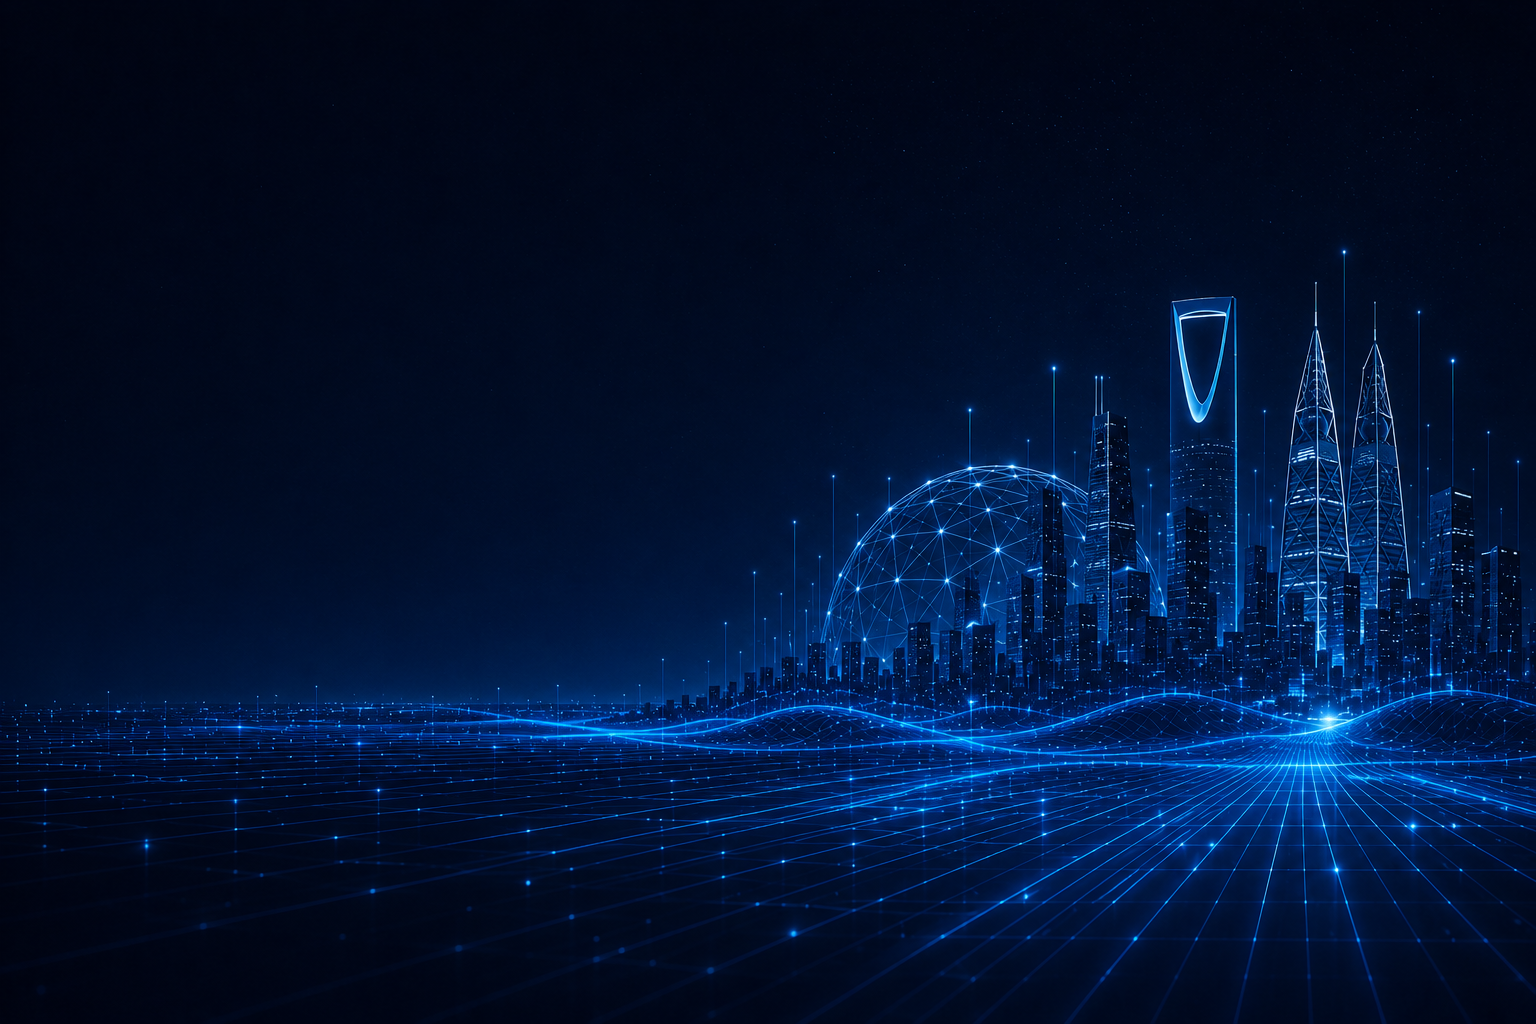
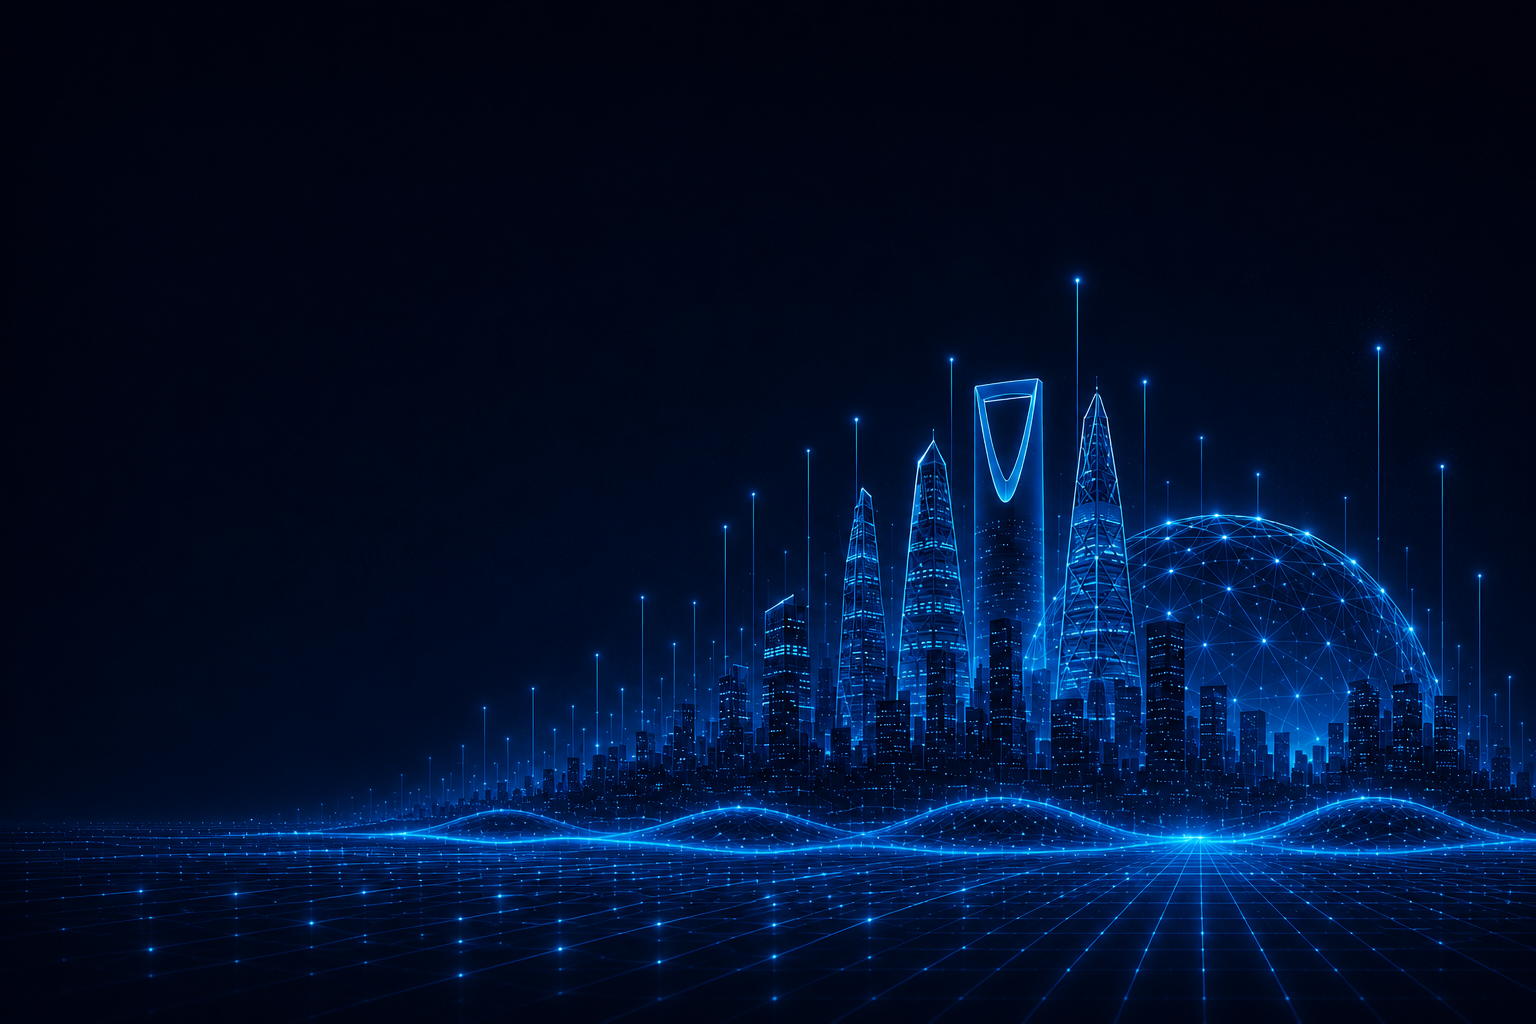
xx

diff --git a/src/components/Footer.css b/src/components/Footer.css
@@ -1,6 +1,6 @@
 .footer {
-  background: var(--bmc-dark);
-  border-top: 1px solid rgba(0,194,255,0.15);
+  background: linear-gradient(135deg, #040819 0%, #071022 55%, #050B1B 100%);
+  border-top: 1px solid rgba(245,240,232,0.08);
 }
 
 .footer-top {
@@ -63,20 +63,39 @@
 
 /* ── Brand Column Partners ── */
 .footer-brand-partners {
-  margin-top: 20px;
+  margin-top: 22px;
+  margin-inline-start: 18px;
+  padding-top: 18px;
+  border-top: 1px solid rgba(245,240,232,0.08);
   width: 100%;
 }
 
 .footer-partners-label--inline {
-  display: block;
-  margin-bottom: 10px;
+  display: inline-flex;
+  align-items: center;
+  gap: 9px;
+  margin-bottom: 14px;
   text-align: start;
+}
+
+.footer-partners-label--inline::after {
+  content: '';
+  width: 34px;
+  height: 1px;
+  background: linear-gradient(90deg, rgba(0,194,255,0.9), transparent);
+}
+
+.rtl .footer-partners-label--inline::after {
+  background: linear-gradient(270deg, rgba(0,194,255,0.9), transparent);
 }
 
 .footer-partners-grid {
   display: grid;
-  grid-template-columns: repeat(2, minmax(0, 1fr));
-  gap: 8px;
+  grid-template-columns: repeat(2, minmax(116px, 1fr));
+  align-items: center;
+  column-gap: 22px;
+  row-gap: 18px;
+  max-width: 330px;
 }
 
 /* ── Saudi Clock ── */
@@ -432,60 +451,73 @@
 
 /* ── Partner Badge - clean & professional ── */
 .footer-partners-label {
-  font-size: 10px;
-  letter-spacing: 2px;
+  font-size: 11px;
+  letter-spacing: 1px;
   text-transform: uppercase;
-  color: rgba(0,194,255,0.5);
+  color: rgba(0,194,255,0.72);
+  font-weight: 800;
 }
 
 .partner-badge {
   display: inline-flex;
   align-items: center;
-  justify-content: center;
-  background: rgba(255, 255, 255, 0.05);
-  border: 1px solid rgba(255, 255, 255, 0.12);
-  border-radius: 8px;
-  padding: 6px 8px;
-  height: 40px;
+  justify-content: flex-start;
+  padding: 0;
+  min-height: 44px;
   min-width: 0;
-  transition: all 0.3s ease;
+  transition: transform 0.3s ease, opacity 0.3s ease, filter 0.3s ease;
   position: relative;
   overflow: visible;
   text-decoration: none;
+}
+
+.rtl .partner-badge {
+  justify-content: flex-end;
 }
 
 .partner-badge::before {
   content: none;
 }
 
-.partner-badge::after {
-  content: '';
-  position: absolute;
-  inset: 0;
-  background: linear-gradient(135deg, rgba(255,255,255,0.05) 0%, transparent 60%);
-  pointer-events: none;
-}
-
 .partner-badge:hover {
-  background: rgba(255, 255, 255, 0.08);
-  border-color: rgba(0,194,255,0.4);
   transform: translateY(-2px);
-  box-shadow: 0 6px 20px rgba(0, 0, 0, 0.4);
 }
 
 .partner-badge-img {
   display: block;
-  height: 26px;
+  height: 36px;
   width: auto;
-  max-width: 92px;
+  max-width: 136px;
   object-fit: contain;
-  opacity: 0.7;
-  transition: opacity 0.3s ease;
-  filter: brightness(1.1);
+  opacity: 0.74;
+  transition: opacity 0.3s ease, filter 0.3s ease, transform 0.3s ease;
+  filter: grayscale(0.15) brightness(1.15) contrast(1.04);
+}
+
+.partner-badge--wordpress .partner-badge-img {
+  height: 38px;
+  max-width: 148px;
+}
+
+.partner-badge--salla .partner-badge-img {
+  height: 33px;
+  max-width: 128px;
+}
+
+.partner-badge--afterads .partner-badge-img {
+  height: 31px;
+  max-width: 132px;
+}
+
+.partner-badge--shopify .partner-badge-img {
+  height: 37px;
+  max-width: 136px;
 }
 
 .partner-badge:hover .partner-badge-img {
   opacity: 1;
+  filter: grayscale(0) brightness(1.18) contrast(1.06);
+  transform: scale(1.04);
 }
 
 /* ── Footer Bottom ── */
@@ -663,7 +695,9 @@
   }
 
   .footer-partners-grid {
-    grid-template-columns: repeat(2, minmax(0, 1fr));
+    grid-template-columns: repeat(2, minmax(112px, 1fr));
+    gap: 14px 18px;
+    max-width: 320px;
   }
 
   .footer-reg-info {

diff --git a/src/components/Navbar.jsx b/src/components/Navbar.jsx
@@ -55,14 +55,14 @@ export default function Navbar({ lang, setLang }) {
 
   const isServicesActive = location.pathname.startsWith('/service') || location.pathname === '/services';
   const accent = 'var(--neon-blue)';
-  const navBg = 'linear-gradient(135deg, rgba(8, 19, 31, 0.96) 0%, rgba(12, 30, 47, 0.94) 52%, rgba(8, 17, 27, 0.96) 100%)';
+  const navBg = 'linear-gradient(135deg, rgba(5, 12, 27, 0.94) 0%, rgba(8, 18, 36, 0.92) 52%, rgba(5, 11, 25, 0.94) 100%)';
 
   const linkStyle = (active) => ({
-    fontSize: 13,
-    fontWeight: 600,
-    color: active ? accent : 'rgba(245, 240, 232, 0.7)',
+    fontSize: 14,
+    fontWeight: active ? 800 : 650,
+    color: active ? '#FFFFFF' : 'rgba(245, 240, 232, 0.82)',
     textDecoration: 'none',
-    letterSpacing: 0.5,
+    letterSpacing: 0,
     transition: 'color 0.3s',
     position: 'relative',
     display: 'inline-flex',
@@ -79,12 +79,12 @@ export default function Navbar({ lang, setLang }) {
         right: 0,
         zIndex: 1000,
         transition: 'all 0.4s ease',
-        background: scrolled ? navBg : 'transparent',
-        backdropFilter: scrolled ? 'blur(20px)' : 'none',
+        background: scrolled ? navBg : 'linear-gradient(180deg, rgba(4, 8, 19, 0.32) 0%, rgba(4, 8, 19, 0) 100%)',
+        backdropFilter: scrolled ? 'blur(18px)' : 'none',
         borderBottom: scrolled
-          ? '1px solid rgba(0, 194, 255, 0.16)'
+          ? '1px solid rgba(245, 240, 232, 0.1)'
           : '1px solid transparent',
-        boxShadow: scrolled ? '0 18px 44px rgba(0, 0, 0, 0.22)' : 'none',
+        boxShadow: scrolled ? '0 16px 38px rgba(2, 8, 16, 0.24)' : 'none',
         padding: scrolled ? '14px 0' : '22px 0',
       }}
     >
@@ -175,13 +175,13 @@ export default function Navbar({ lang, setLang }) {
                   top: '100%',
                   [lang === 'ar' ? 'right' : 'left']: 0,
                   minWidth: 280,
-                  background: 'rgba(11, 15, 21, 0.98)',
-                  border: '1px solid rgba(108, 99, 255, 0.15)',
+                  background: 'rgba(6, 13, 28, 0.98)',
+                  border: '1px solid rgba(245, 240, 232, 0.12)',
                   backdropFilter: 'blur(20px)',
                   padding: '8px 0',
                   marginTop: 8,
                   borderRadius: 14,
-                  boxShadow: '0 20px 60px rgba(0,0,0,0.5)',
+                  boxShadow: '0 20px 54px rgba(2,8,16,0.38)',
                 }}
               >
                 {/* All Services link */}
@@ -341,9 +341,9 @@ export default function Navbar({ lang, setLang }) {
       {menuOpen && (
         <div
           style={{
-            background: 'rgba(11, 15, 21, 0.98)',
+            background: 'rgba(6, 13, 28, 0.98)',
             padding: '20px 24px',
-            borderTop: '1px solid rgba(108, 99, 255, 0.1)',
+            borderTop: '1px solid rgba(245, 240, 232, 0.1)',
           }}
         >
           <Link

diff --git a/src/components/Footer.jsx b/src/components/Footer.jsx
@@ -28,10 +28,10 @@ const MailIcon = () => (
 );
 
 const partners = [
-  { name: 'WordPress', src: wordpressImg, href: 'https://wordpress.com/' },
-  { name: 'Salla', src: sallaImg, href: 'https://salla.com/' },
-  { name: 'AfterAds', src: afteradsImg, href: 'https://afterads.com/' },
-  { name: 'Shopify', src: shopifyImg, href: 'https://www.shopify.com/' },
+  { name: 'WordPress', key: 'wordpress', src: wordpressImg, href: 'https://wordpress.com/' },
+  { name: 'Salla', key: 'salla', src: sallaImg, href: 'https://salla.com/' },
+  { name: 'AfterAds', key: 'afterads', src: afteradsImg, href: 'https://afterads.com/' },
+  { name: 'Shopify', key: 'shopify', src: shopifyImg, href: 'https://www.shopify.com/' },
 ];
 
 function SaudiClock({ lang }) {
@@ -164,8 +164,8 @@ export default function Footer({ lang }) {
                   {lang === 'ar' ? 'شركائنا' : 'Our Partners'}
                 </span>
                 <div className="footer-partners-grid">
-                  {partners.map(({ name, src, href }) => (
-                    <a key={name} className="partner-badge" href={href} target="_blank" rel="noopener noreferrer" title={name} aria-label={name}>
+                  {partners.map(({ name, key, src, href }) => (
+                    <a key={name} className={`partner-badge partner-badge--${key}`} href={href} target="_blank" rel="noopener noreferrer" title={name} aria-label={name}>
                       <img src={src} alt={name} className="partner-badge-img" />
                     </a>
                   ))}

diff --git a/src/index.css b/src/index.css
@@ -17,10 +17,10 @@
   --neon-mid:       #00C2FF;
 
   /* Backgrounds */
-  --bmc-dark:   #020414;
-  --bmc-dark-2: #04071A;
-  --bmc-dark-3: #070B20;
-  --bmc-dark-4: #0A1028;
+  --bmc-dark:   #040819;
+  --bmc-dark-2: #071022;
+  --bmc-dark-3: #0A152B;
+  --bmc-dark-4: #0D1B34;
 
   --bmc-white: #F5F0E8;
 
@@ -48,7 +48,9 @@
 html { scroll-behavior: auto; }
 
 body {
-  background: #020414;
+  background:
+    radial-gradient(circle at 18% 0%, rgba(0, 194, 255, 0.06), transparent 32%),
+    linear-gradient(135deg, #040819 0%, #071022 52%, #050B1B 100%);
   color: var(--bmc-white);
   font-family: 'Cairo', sans-serif !important;
   direction: rtl;

diff --git a/src/mobile-responsive.css b/src/mobile-responsive.css
@@ -339,9 +339,12 @@ body {
   }
   .footer-reg-info { flex-wrap: wrap !important; gap: 10px !important; width: 100% !important; }
   .footer-reg-divider { width: 100% !important; height: 1px !important; }
-  .partner-badge { min-width: 64px !important; height: 42px !important; padding: 6px 10px !important; }
-  .partner-badge-img { height: 24px !important; }
-  .footer-partners-grid { gap: 8px !important; }
+  .footer-brand-partners { margin-inline-start: 0 !important; }
+  .partner-badge { min-height: 38px !important; padding: 0 !important; }
+  .partner-badge-img { height: 30px !important; max-width: 122px !important; }
+  .partner-badge--wordpress .partner-badge-img { height: 33px !important; }
+  .partner-badge--afterads .partner-badge-img { height: 27px !important; }
+  .footer-partners-grid { grid-template-columns: repeat(2, minmax(108px, 1fr)) !important; gap: 14px 18px !important; max-width: 300px !important; }
 }
 
 /* ═══════════════════════════════════════════

diff --git a/src/components/Hero.jsx b/src/components/Hero.jsx
@@ -324,13 +324,13 @@ export default function Hero({ lang }) {
             transform: none !important;
           }
           #hero .hero-text-block {
-            margin-right: 0 !important;
+            margin-right: -42px !important;
             margin-left: auto !important;
-            transform: translateY(-10px);
+            transform: translateY(44px);
           }
           html[dir="ltr"] #hero .hero-text-block {
             margin-right: auto !important;
-            margin-left: 0 !important;
+            margin-left: -42px !important;
           }
           #hero .hero-image-wrap img {
             object-position: 61% 44% !important;